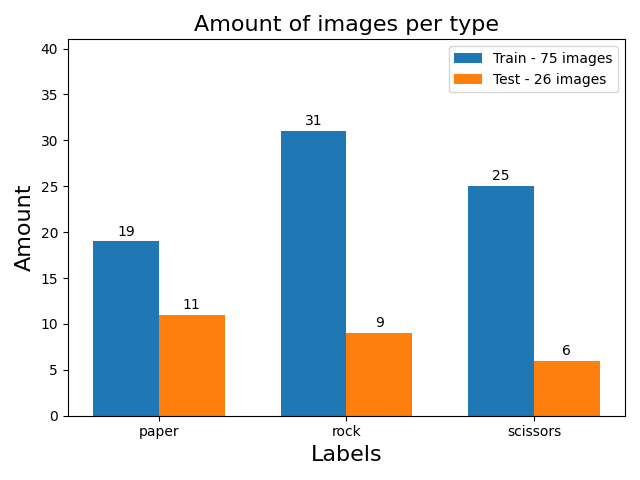
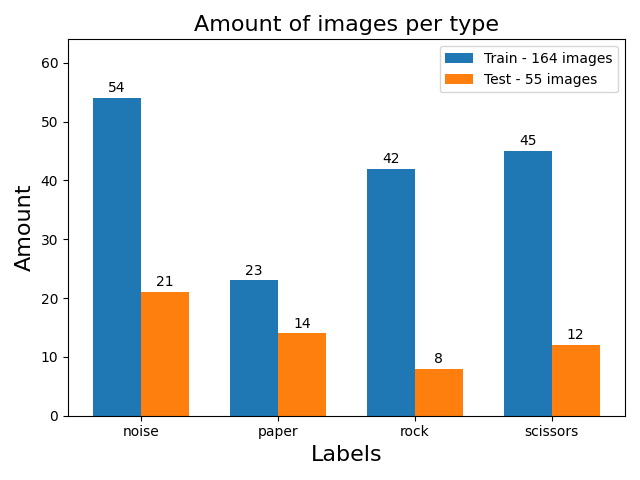
noise implemented

diff --git a/rps_model/model_train.py b/rps_model/model_train.py
@@ -5,10 +5,10 @@ import pandas as pd
 from sklearn.discriminant_analysis import QuadraticDiscriminantAnalysis
 from sklearn.gaussian_process import GaussianProcessClassifier
 from sklearn.gaussian_process.kernels import RBF
-from sklearn.linear_model import SGDClassifier
+from sklearn.linear_model import SGDClassifier, LogisticRegression
 from sklearn.model_selection import train_test_split
 from sklearn.ensemble import RandomForestClassifier, AdaBoostClassifier
-from sklearn.metrics import accuracy_score, precision_score, recall_score, f1_score, roc_curve, confusion_matrix
+from sklearn.metrics import accuracy_score, precision_score, recall_score, f1_score, confusion_matrix
 from sklearn.model_selection._split import KFold
 from sklearn.naive_bayes import GaussianNB
 from sklearn.neighbors import KNeighborsClassifier
@@ -139,7 +139,8 @@ def cross_validation():
         AdaBoostClassifier(),
         GaussianNB(),
         QuadraticDiscriminantAnalysis(),
-        SGDClassifier()
+        SGDClassifier(),
+        LogisticRegression()
     ]
     names = [
         "Nearest Neighbors",
@@ -152,7 +153,8 @@ def cross_validation():
         "AdaBoost",
         "Naive Bayes",
         "QDA",
-        "SGD"
+        "SGD",
+        "Logistic Regression"
     ]
     # Splitting data for cross validation
     kf = KFold(n_splits=5, shuffle=True)
@@ -182,7 +184,7 @@ def cross_validation():
     export_df = pd.DataFrame()
     for key, values in cv_result.items():
         export_df[f'{key}'] = values
-    export_df.to_csv('data/cv_result.csv')
+    export_df.to_csv('data/cv_result_1.csv')
 
     return cv_result
 
@@ -194,7 +196,6 @@ def cross_validation():
 model = SGDClassifier()
 model.fit(X_train, y_train)
 y_pred = model.predict(X_test)
-print('Model score: ', model.score(X_test, y_test))
 print('Accuracy: ', accuracy_score(y_test, y_pred))
 print('Recall: ', recall_score(y_test, y_pred, average='weighted'))
 print('Precision: ', precision_score(y_test, y_pred, average='weighted'))

diff --git a/rps_model/settings.py b/rps_model/settings.py
@@ -2,14 +2,16 @@
 PATHS = [
     '../../../Obrazy/rock/',
     '../../../Obrazy/paper/',
-    '../../../Obrazy/scissors/'
+    '../../../Obrazy/scissors/',
+    '../../../Obrazy/noise/'
 ]
 
-# Labels for prediction, must match witch folder name.
+# Labels for prediction, must match with folder name.
 LABELS = [
     'rock',
     'paper',
-    'scissors'
+    'scissors',
+    'noise'
 ]
 
 # Image size in pixels, for resizing process.
